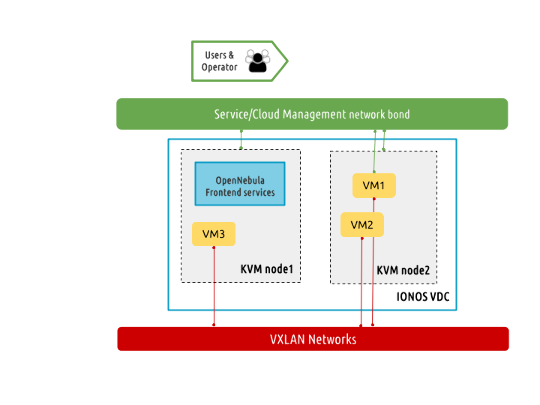
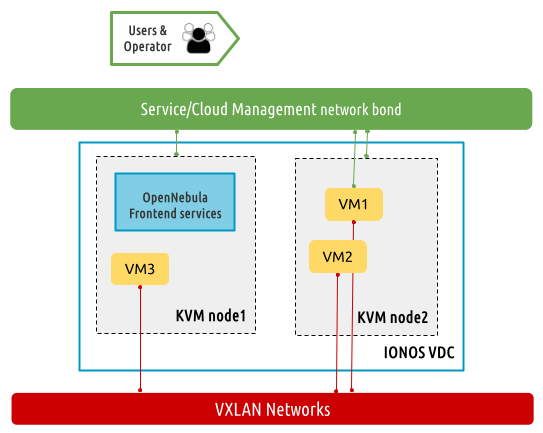
M #-: Retouch IONOS images

diff --git a/content/solutions/hosted_cloud_providers/ionos_opennebula/overview.md b/content/solutions/hosted_cloud_providers/ionos_opennebula/overview.md
@@ -11,6 +11,6 @@ Lastly, it includes a guide covering the basics to start using the OpenNebula Ho
 
 The target high-level cloud architecture overview is shown below. Two hosts are deployed: the first for hosting the OpenNebula Front-end services and VMs, the second for hosting VMs only. Both machines should have a public IP, which is used to manage the nodes. The figure below also shows the target reference VMs to be deployed for testing purposes. At least one VM must be accessible to configure with a public IP, and all of them shall be connected to the VXLAN network.
 
-![image][high-level]
+![><][high-level]
 
 [high-level]: /images/solutions/ionos/high-level-architecture.png
